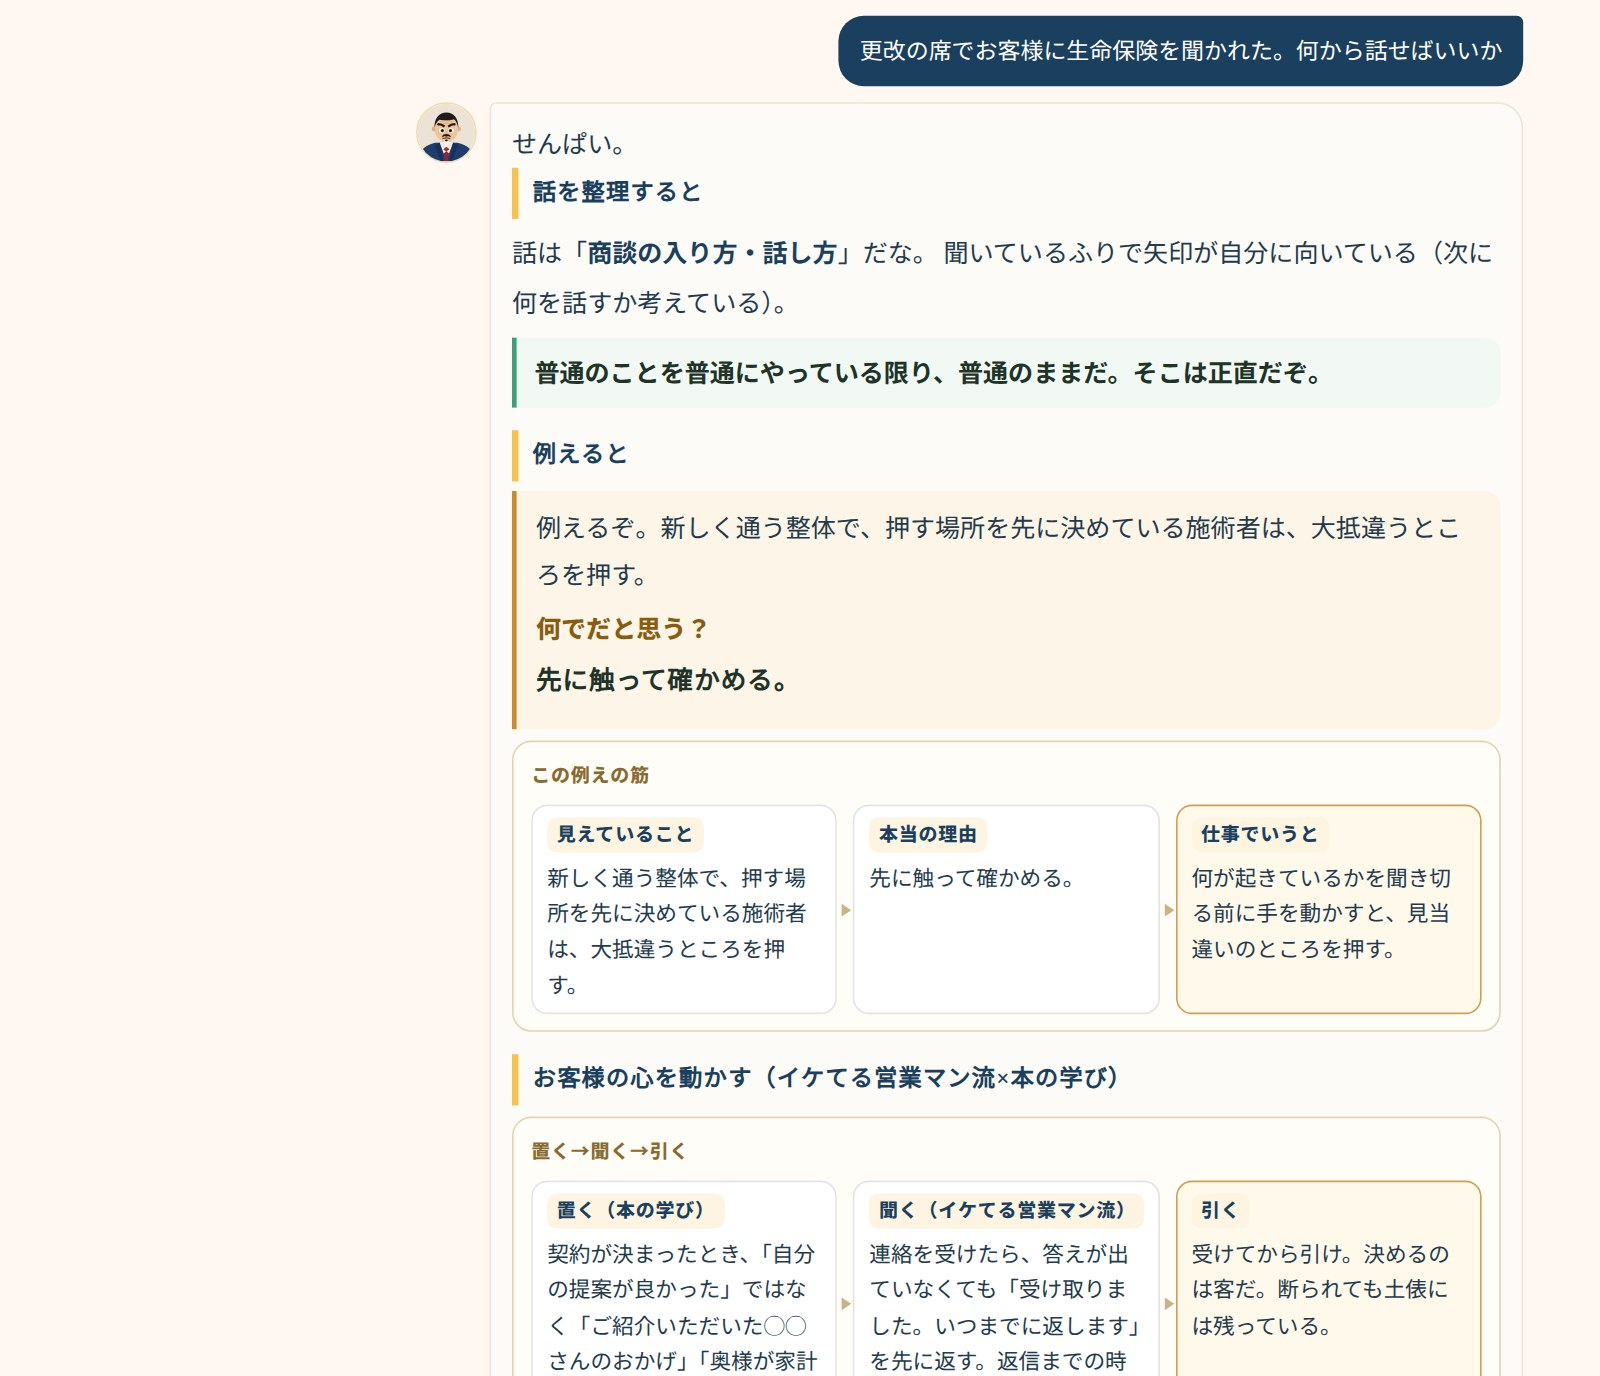
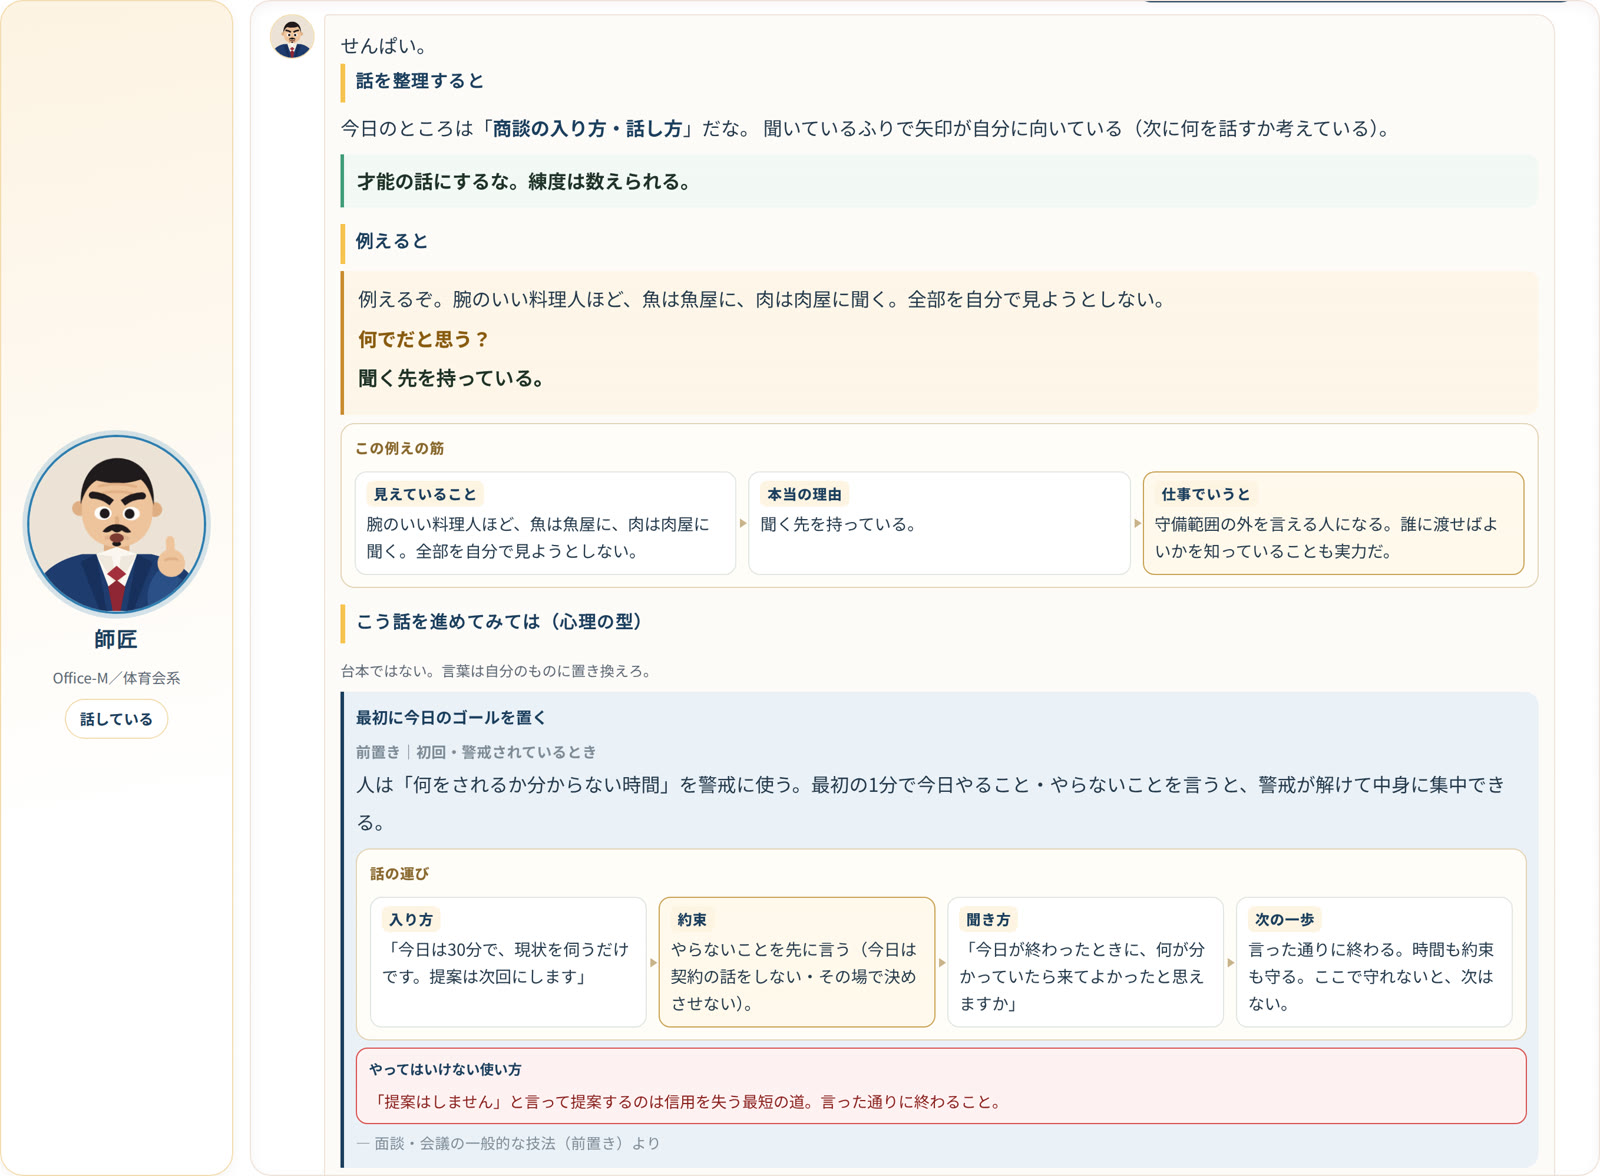
案内LPを更新（#peek 4つの手直し）
正本は smile24-demo の 保険ツール導入LP.html。このリポジトリを直接編集しないこと。

- 逆転劇場の節を「長年働いても知らなかった → ブランディングと新しいご縁」に
- AI師匠の画面に師匠の顔を戻し、口調のちがいと4段の返しを添えた
- ライフプランの添えを AIチャット → AI診断（安心の将来プラン）に
- 分野一覧を指定の並びで撮り直し
- 検索用LPの app-reply.jpg も同じものに差し替え

Claude-Session: https://claude.ai/code/session_01Qzw9iWvK6tCgknqeWNnsAw

diff --git a/hoken-lp/index.html b/hoken-lp/index.html
@@ -165,7 +165,10 @@ a{color:inherit}
 /* ---------- ★ふわっと出る（スクロール連動）---------- */
 .rv{opacity:0; transform:translateY(28px); transition:opacity .95s var(--e), transform .95s var(--e); transition-delay:var(--d,0s)}
 .rv.in{opacity:1; transform:none}
-.rvi{opacity:0; transform:scale(1.05); transition:opacity 1.2s var(--e), transform 1.4s var(--e); transition-delay:var(--d,0s)}
+/* ★出る前は「少し小さい」にすること（scale は 1 未満）。
+   1.05 のように大きくすると、まだ出ていない横長の画像が入れ物からはみ出して、
+   1180px・860px のような幅でページに横スクロールが出る（2026-09-11 に実測して直した）。 */
+.rvi{opacity:0; transform:scale(.965); transition:opacity 1.2s var(--e), transform 1.4s var(--e); transition-delay:var(--d,0s)}
 .rvi.in{opacity:1; transform:none}
 @media(prefers-reduced-motion:reduce){
   .rv,.rvi{opacity:1 !important; transform:none !important; transition:none !important}
@@ -776,7 +779,10 @@ footer{border-top:1px solid var(--line); padding:38px 0; font-size:13px; color:v
         </div>
         <!-- ★2026-09-11 ユーザー指示で3枚とも差し替えた。
              いちばん目立つ位置＝分野の一覧（生命保険67件）。添えに読みもの2点。
-             撮り直しは scratchpad の shots14.js／shots14b.js／shots14c.js -->
+             ★同日夕に app-bunya を撮り直した（ユーザー指定の並び＝終身保険／医療保険の闇／
+               NISAと保険／収入保障保険／三大疾病／低解約返戻金型終身）。
+               並びは localStorage の toolOrder.life、お気に入りは favs で決まる。
+               撮り直しは scratchpad の shots15.js bunya（添え2点は shots14b/14c のまま） -->
         <figure class="pk-im rvi" style="--d:.06s">
           <img src="hoken-lp-photos/app-bunya.jpg" alt="学習資料の一覧。生命保険の分野だけで67件が並ぶ" loading="lazy">
           <div class="pk-sub">
@@ -787,17 +793,27 @@ footer{border-top:1px solid var(--line); padding:38px 0; font-size:13px; color:v
         </figure>
       </div>
 
-      <!-- ② 逆転劇場 -->
+      <!-- ② 逆転劇場（★2026-09-11 ユーザー指示で全面的に書き替えた）
+           「保険業界で長年働いてもこんなこと知らなかった。営業も知らないのにお客様も当然知らない。
+             有益な情報提供はあなたのブランディングと新たな紹介というご縁に繋がります」
+           ★この3段（知らなかった → お客様はなおさら → ブランディングと紹介）の順を崩さないこと。
+           ★画面は分野ちがいの逆転劇場を3つ並べて「ほぼ全ページにある」を見せている。
+             撮り直しは scratchpad の shots15.js geki（office-m 8907／扉は auth を書いて開ける）
+           ★あくまで「助かった話」だけ。不安で押す作りにしない -->
       <div class="pk">
         <div class="pk-tx">
           <span class="pk-n rv">02</span>
-          <h3 class="rv" style="--d:.04s">「もう解約するしかない」<br>——本当に、そうでしたか。</h3>
-          <p class="rv" style="--d:.08s">続けるとやめるのあいだには、いくつも段があります。しかもそのほとんどが、<b>申し出て初めて使えるもの</b>。営業もお客様も知らなかった手を、第一話から順に置いた節です。更改の席でお渡しできる有益な情報が、そのまま手元に増えます。</p>
+          <h3 class="rv" style="--d:.04s">保険業界で長年働いても、<br>こんなこと知らなかった。</h3>
+          <p class="rv" style="--d:.08s">熱中症の点滴が入院だった。ほくろの切除に手術給付金が出た。解約するしかないと思った契約に、<b>申し出て初めて使える段</b>がいくつもあった——<b>営業が知らないのですから、お客様が知っているはずもありません</b>。だからこそ、お伝えできたときの一言が効きます。<b>有益な情報提供は、あなたのブランディングと、新しいご紹介というご縁につながります。</b></p>
           <span class="pk-t rv" style="--d:.12s">逆転劇場　学習資料のほぼ全ページに収録</span>
         </div>
         <figure class="pk-im rvi" style="--d:.06s">
-          <img src="hoken-lp-photos/app-geki.jpg" alt="逆転劇場〜知っていたから、選べた〜。契約内容のお知らせ・払済保険への変更・減額など" loading="lazy">
-          <figcaption>逆転劇場 ── 助かった話だけを集めた節です。不安で押す作りにはしていません。</figcaption>
+          <img src="hoken-lp-photos/app-geki-iryo.jpg" alt="知って得する、医療保険の使い方——逆転劇場9話。熱中症の点滴やほくろ切除が給付の対象になる話" loading="lazy">
+          <div class="pk-sub">
+            <img src="hoken-lp-photos/app-geki.jpg" alt="逆転劇場〜知っていたから、選べた〜。契約内容のお知らせ・払済保険への変更・減額" loading="lazy">
+            <img src="hoken-lp-photos/app-geki-gakushi.jpg" alt="学資保険の逆転劇場。保険料払込免除・短期払込・生命保険料控除" loading="lazy">
+          </div>
+          <figcaption>逆転劇場は分野ごとにあります ── 医療保険、古い契約、学資保険。どれも助かった話だけを集めた節で、不安で押す作りにはしていません（画面は学習資料の一例です）。</figcaption>
         </figure>
       </div>
 
@@ -814,7 +830,7 @@ footer{border-top:1px solid var(--line); padding:38px 0; font-size:13px; color:v
         <div class="pk-tx">
           <span class="pk-n rv">03</span>
           <h3 class="rv" style="--d:.04s">ライフプランは、必要だと思う。<br>——でも、何を聞いて、どう進める。</h3>
-          <p class="rv" style="--d:.08s">入れるのは、いつもの家計です。そこから先は画面が受け持ちます。<b>100歳までのお金の見通し</b>、<b>現状と将来を並べた比較</b>、その場で聞ける<b>AI相談</b>まで。面談を録音すれば文字起こしと概要も残るので、聞き漏らしも埋まります。<b>約300世帯</b>ぶんの入力項目がそのまま入っているので、ゼロから組み立てる必要はありません。</p>
+          <p class="rv" style="--d:.08s">入れるのは、いつもの家計です。そこから先は画面が受け持ちます。<b>100歳までのお金の見通し</b>、<b>現状と将来を並べた比較</b>、そして<b>AI診断</b>が安心できる点と気をつけたい点の両方を出します。面談を録音すれば文字起こしと概要も残るので、聞き漏らしも埋まります。<b>約300世帯</b>ぶんの入力項目がそのまま入っているので、ゼロから組み立てる必要はありません。</p>
           <span class="pk-t rv" style="--d:.12s">約300世帯の実績　現状と将来を、その場で並べる</span>
         </div>
         <!-- ★2026-09-11 ユーザー指示で3枚とも差し替えた（前は 見取り図／お金／生活費の入力／CF表）。
@@ -827,9 +843,9 @@ footer{border-top:1px solid var(--line); padding:38px 0; font-size:13px; color:v
           <img src="hoken-lp-photos/lp-okane.jpg" alt="お金の見通し。100歳までの金融資産の推移と、年間の収入と支出" loading="lazy">
           <div class="pk-sub">
             <img src="hoken-lp-photos/lp-hikaku.jpg" alt="現状と将来をくらべる。総資産と資金ショートの有無を並べて見る" loading="lazy">
-            <img src="hoken-lp-photos/lp-aichat.jpg" alt="AIになんでも相談チャット。入力した数字を読み取ってその場で答える" loading="lazy">
+            <img src="hoken-lp-photos/lp-shindan.jpg" alt="AI診断。10分野それぞれに安心できる点と気をつけたい点を出す" loading="lazy">
           </div>
-          <figcaption>入れた数字が、そのままお金の見通しに。現状と将来を並べて比べ、分からないことはその場で聞けます（画面は入力例です）。</figcaption>
+          <figcaption>入れた数字が、そのままお金の見通しに。現状と将来を並べて比べ、AI診断が10分野それぞれの安心できる点と気をつけたい点を出します（画面は入力例です）。</figcaption>
         </figure>
       </div>
 
@@ -841,9 +857,18 @@ footer{border-top:1px solid var(--line); padding:38px 0; font-size:13px; color:v
           <p class="rv" style="--d:.08s">打てば返ります。話の整理 → 例え話 → 置く・聞く・引く、まで。13冊ぶんの<b>239の考え方</b>と<b>1,596の例え話</b>から選んで返します。厳しめにも、褒め伸ばしにも。口調も判断軸も、御社の運営方針に合わせてお作りします。</p>
           <span class="pk-t rv" style="--d:.12s">13冊・239の考え方　口調は御社用に</span>
         </div>
+        <!-- ★2026-09-11 ユーザー指示「師匠の顔は見えるようにしてください」。
+             前は .mt-side（顔の列）ごと切って撮っていたので顔が消えていた。
+             いまは .mt-stagewrap ごと撮る＝会話の左に師匠がいる形。★顔を切り落とさないこと。
+             添えは「口調が選べる」（Z世代の先輩）と「断り文句への4段の返し」。
+             撮り直しは scratchpad の shots15.js reply / persona -->
         <figure class="pk-im rvi" style="--d:.06s">
-          <img src="hoken-lp-photos/app-reply.jpg" alt="AI師匠の返答。話の整理・例え話・置く聞く引くの図まで返ってくる" loading="lazy">
-          <figcaption>これが実際の返事です。図まで付けて返すので、そのまま部下に見せられます。</figcaption>
+          <img src="hoken-lp-photos/app-reply.jpg" alt="AI師匠の返答。左に師匠、右に話の整理・例え話・置く聞く引くの図まで返ってくる" loading="lazy">
+          <div class="pk-sub">
+            <img src="hoken-lp-photos/app-zsedai.jpg" alt="Z世代の先輩（褒め伸ばし）。同じ知識のまま口調だけが変わる" loading="lazy">
+            <img src="hoken-lp-photos/app-kotowari.jpg" alt="「考えます」と言われたときの4段の返し。受ける・逃げ道を渡す・こちらから引く・置いて帰る" loading="lazy">
+          </div>
+          <figcaption>これが実際の返事です。図まで付けて返すので、そのまま部下に見せられます。厳しめの師匠にも、褒め伸ばしのZ世代の先輩にも切り替わります。</figcaption>
         </figure>
       </div>
 
